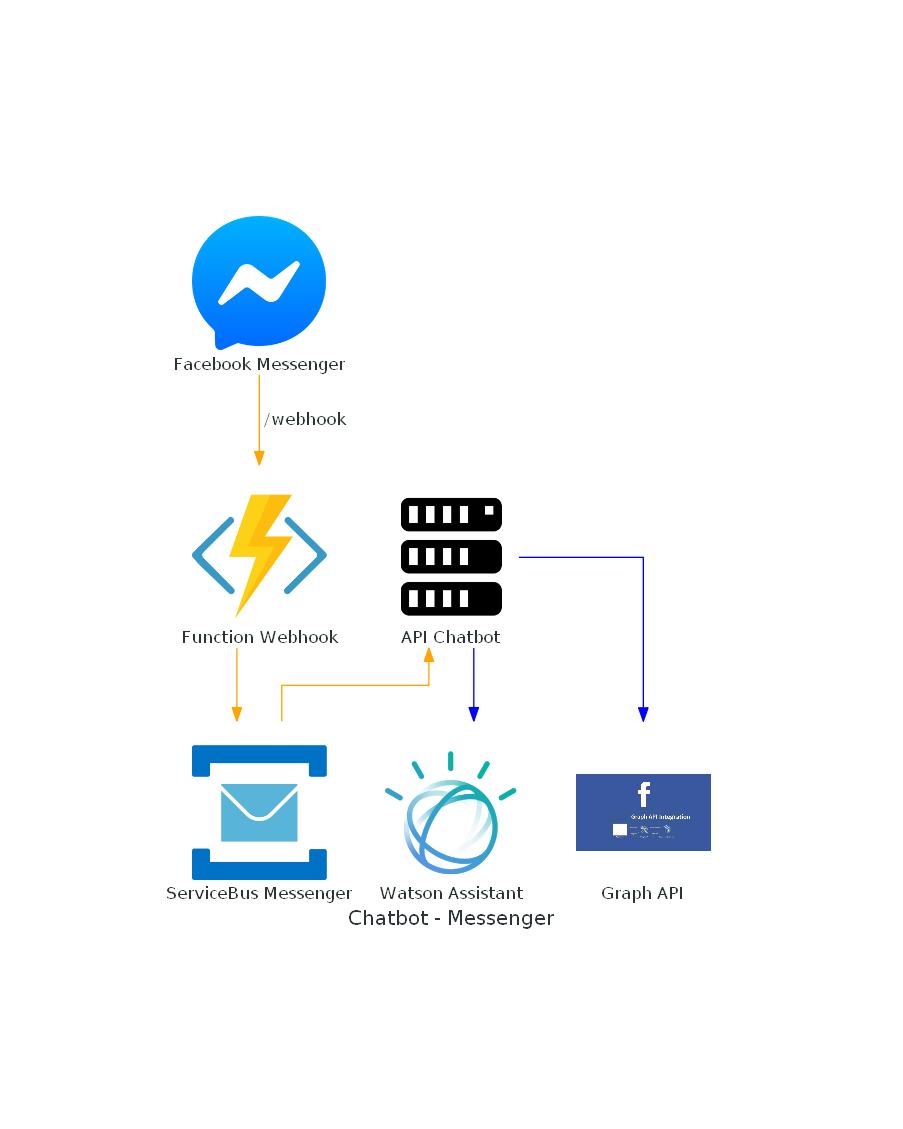
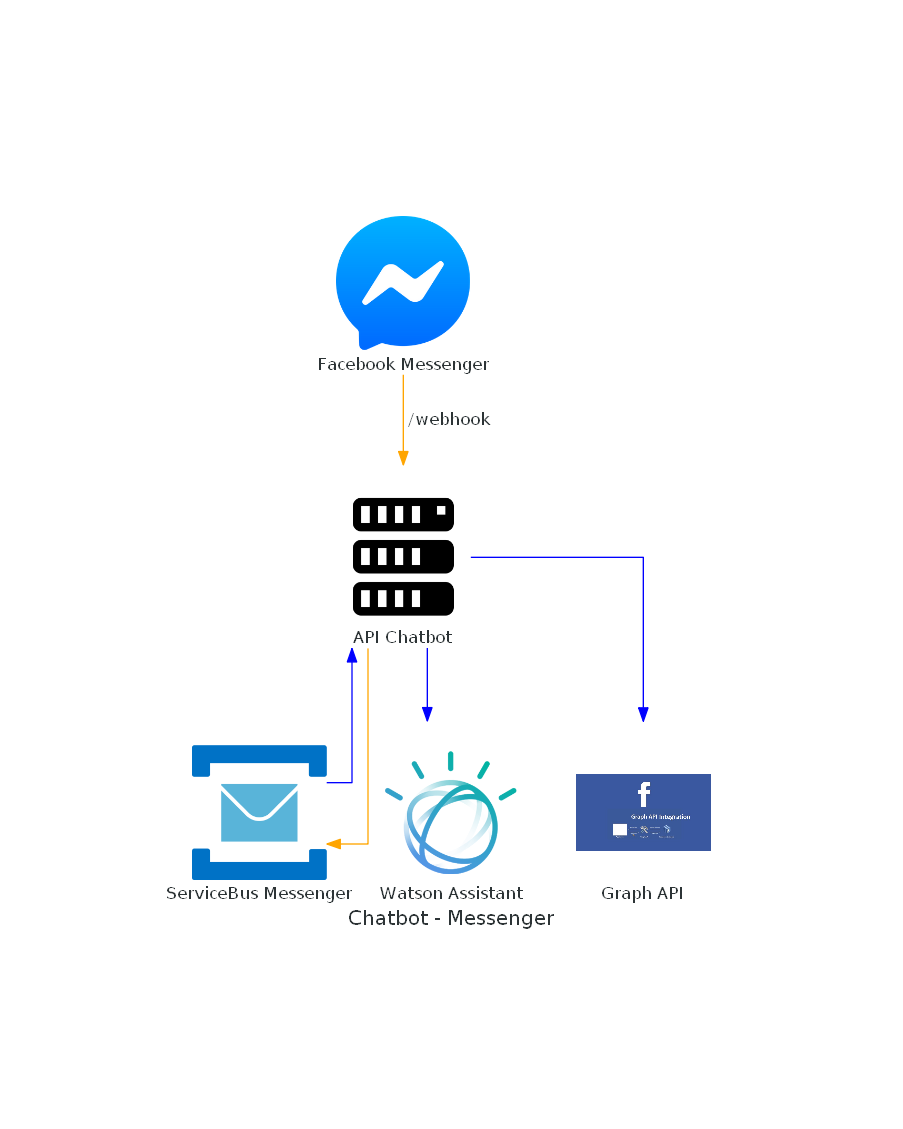
Alteração diagram contendo big picture

diff --git a/docs/diagram-chatbot.py b/docs/diagram-chatbot.py
@@ -12,11 +12,10 @@ with Diagram("Chatbot - Messenger", show=False, direction="TB"):
     messenger = Custom("Facebook Messenger", img_messenger_path)
     servicebus = ServiceBus("ServiceBus Messenger")
     chatbot_api = Server("API Chatbot")
-    function = FunctionApps("Function Webhook")
     watson_assistant = Custom("Watson Assistant", img_watson_path)
     graph_api = Custom("Graph API", img_graph_api_path)
 
-    messenger >> Edge(color="Orange", label=" /webhook") >> function >> Edge(color="Orange") >> servicebus
-    chatbot_api << Edge(color="Orange") << servicebus 
+    messenger >> Edge(color="Orange", label=" /webhook") >> chatbot_api >> Edge(color="Orange") >> servicebus
+    chatbot_api << Edge(color="Blue") << servicebus 
     chatbot_api >> Edge(color="Blue") >>watson_assistant 
     chatbot_api >> Edge(color="Blue") >>graph_api

diff --git a/src/Chatbot.API/Controllers/WebhookController.cs b/src/Chatbot.API/Controllers/WebhookController.cs
@@ -33,7 +33,6 @@ namespace Chatbot.API.Controllers
         [ProducesResponseType(StatusCodes.Status400BadRequest)]
         [ProducesResponseType(StatusCodes.Status200OK)]
         [ProducesResponseType(StatusCodes.Status403Forbidden)]
-        [ProducesResponseType(StatusCodes.Status400BadRequest)]
         public IActionResult WebhookSubscribe(HttpRequest httpRequest)
         {
             string mode = httpRequest.Query["hub.mode"];
